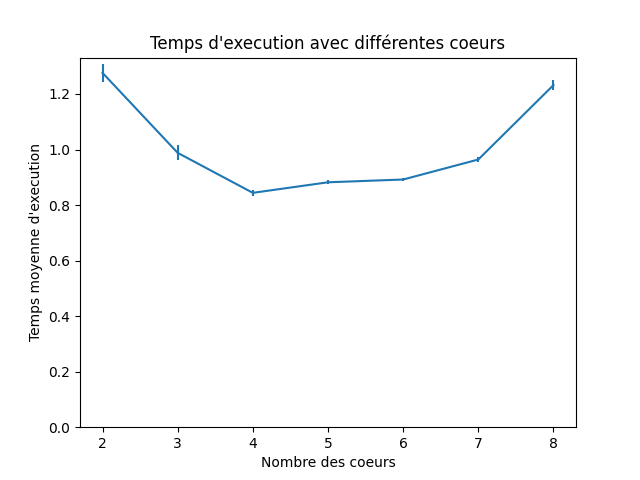
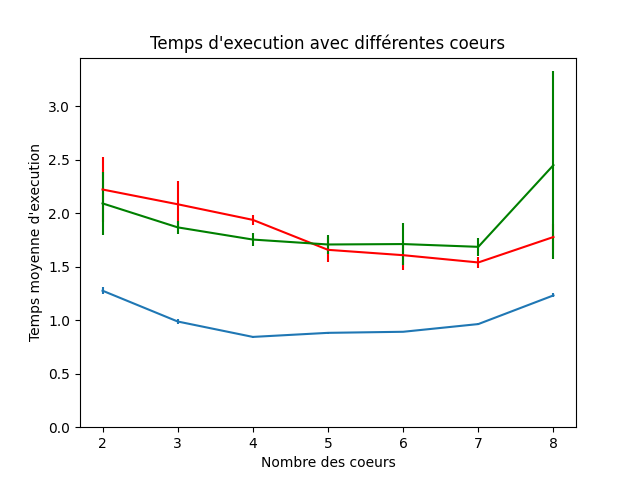
graphe avec mutex

diff --git a/src/graphes/problèmes.py b/src/graphes/problèmes.py
@@ -3,8 +3,14 @@ import numpy as np
 import pandas
 
 philoData = pandas.read_csv('philo.csv')["time"]
+philoTaSData = pandas.read_csv('philoTaS.csv')["time"]
+philoTaTaSData = pandas.read_csv('philoTaTaS.csv')["time"]
 prodConsData = pandas.read_csv('prodCons.csv')["time"]
+prodConsTaSData = pandas.read_csv('prodConsTaS.csv')["time"]
+prodConsTaTaSData = pandas.read_csv('prodConsTaTaS.csv')["time"]
 lectEcrvData = pandas.read_csv('lectEcr.csv')["time"]
+lectEcrvTaSData = pandas.read_csv('lectEcrTaS.csv')["time"]
+lectEcrvTaTaSData = pandas.read_csv('lectEcrTaTaS.csv')["time"]
 
 
 philoAverages = []
@@ -13,11 +19,27 @@ for i in range(0,len(philoData),15) :
 	n = philoData[i: i+15]
 	philoAverages.append(np.mean(n))
 	stdPhilo.append(np.std(n))
+'''
+philoTaSAverages = []
+stdPhiloTaS = []
+for i in range(0,len(philoTaSData),15) :
+	n = philoTaSData[i: i+15]
+	philoTaSAverages.append(np.mean(n))
+	stdPhiloTaS.append(np.std(n))
 
+philoTaTaSAverages = []
+stdPhiloTaTaS = []
+for i in range(0,len(philoTaTaSData),15) :
+	n = philoTaTaSData[i: i+15]
+	philoTaTaSAverages.append(np.mean(n))
+	stdPhiloTaTaS.append(np.std(n))
+'''
 plt.xlabel('Nombre des coeurs')
 plt.ylabel("Temps moyenne d'execution")
 plt.title("Temps d'execution avec différentes coeurs")
 plt.errorbar(range(2,len(philoData)//15+2),philoAverages, yerr=stdPhilo)
+#plt.errorbar(range(2,len(philoTaSData)//15+2),philoTaSAverages, yerr=stdPhiloTaS, color = 'r')
+#plt.errorbar(range(2,len(philoTaTaSData)//15+2),philoTaTaSAverages, yerr=stdPhiloTaTaS, color = 'g')
 plt.axis(ymin=0)
 plt.savefig("Philo.png")
 plt.show()
@@ -29,10 +51,26 @@ for i in range(0,len(prodConsData),5) :
 	prodAverages.append(np.mean(n))
 	stdProd.append(np.std(n))
 
+prodTaSAverages = []
+stdProdTaS = []
+for i in range(0,len(prodConsTaSData),5) :
+	n = prodConsTaSData[i: i+5]
+	prodTaSAverages.append(np.mean(n))
+	stdProdTaS.append(np.std(n))
+
+prodTaTaSAverages = []
+stdProdTaTaS = []
+for i in range(0,len(prodConsTaTaSData),5) :
+	n = prodConsTaTaSData[i: i+5]
+	prodTaTaSAverages.append(np.mean(n))
+	stdProdTaTaS.append(np.std(n))
+
 plt.xlabel('Nombre des coeurs')
 plt.ylabel("Temps moyenne d'execution")
 plt.title("Temps d'execution avec différentes coeurs")
 plt.errorbar(range(2,len(prodConsData)//5+2),prodAverages, yerr=stdProd)
+plt.errorbar(range(2,len(prodConsTaSData)//5+2),prodTaSAverages, yerr=stdProdTaS, color = 'r')
+plt.errorbar(range(2,len(prodConsTaTaSData)//5+2),prodTaTaSAverages, yerr=stdProdTaTaS, color = 'g')
 plt.axis(ymin=0)
 plt.savefig("Prod.png")
 plt.show()
@@ -44,10 +82,26 @@ for i in range(0,len(lectEcrvData),5) :
 	lectAverages.append(np.mean(n))
 	stdLect.append(np.std(n))
 
+lectTaSAverages = []
+stdLectTaS = []
+for i in range(0,len(lectEcrvTaSData),5) :
+	n = lectEcrvTaSData[i: i+5]
+	lectTaSAverages.append(np.mean(n))
+	stdLectTaS.append(np.std(n))
+
+lectTaTaSAverages = []
+stdLectTaTaS = []
+for i in range(0,len(lectEcrvTaTaSData),5) :
+	n = lectEcrvTaTaSData[i: i+5]
+	lectTaTaSAverages.append(np.mean(n))
+	stdLectTaTaS.append(np.std(n))
+
 plt.xlabel('Nombre des coeurs')
 plt.ylabel("Temps moyenne d'execution")
 plt.title("Temps d'execution avec différentes coeurs")
 plt.errorbar(range(2,len(lectEcrvData)//5+2),lectAverages, yerr = stdLect)
+plt.errorbar(range(2,len(lectEcrvTaSData)//5+2),lectTaSAverages, yerr = stdLectTaS, color = 'r')
+plt.errorbar(range(2,len(lectEcrvTaTaSData)//5+2),lectTaTaSAverages, yerr = stdLectTaTaS, color = 'g')
 plt.axis(ymin=0)
 plt.savefig("Lect.png")
 plt.show()

diff --git a/src/graphes/mutex.py b/src/graphes/mutex.py
@@ -19,7 +19,7 @@ for i in range(0,len(TaTaSData),5) :
 	TaTaSAverages.append(np.mean(n))
 	stdTaTaS.append(np.std(n))
 
-plt.xlabel('Nombre des coeurs')
+plt.xlabel('Nombre des threads')
 plt.ylabel("Temps moyenne d'execution")
 plt.title("Temps d'execution avec différentes coeurs")
 plt.errorbar(range(1,len(TaSData)//5+1),TaSAverages, yerr=stdTaS, color = 'r', linestyle="--")
